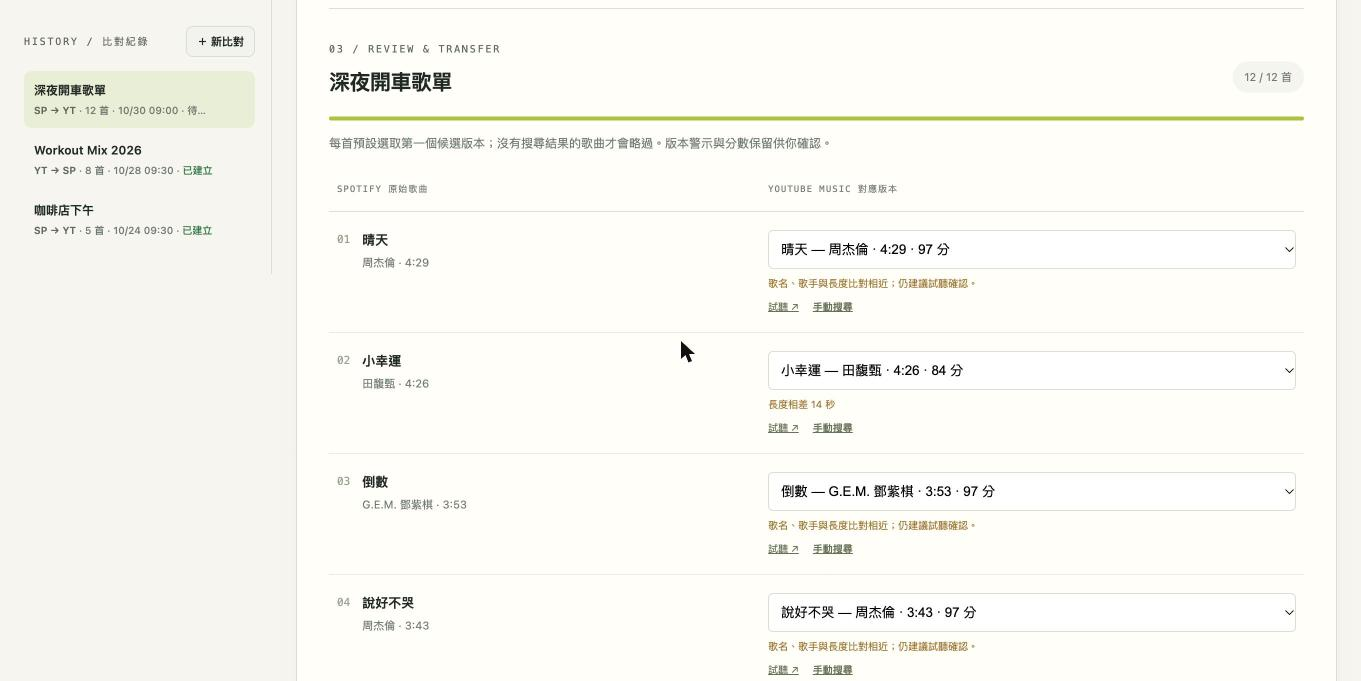
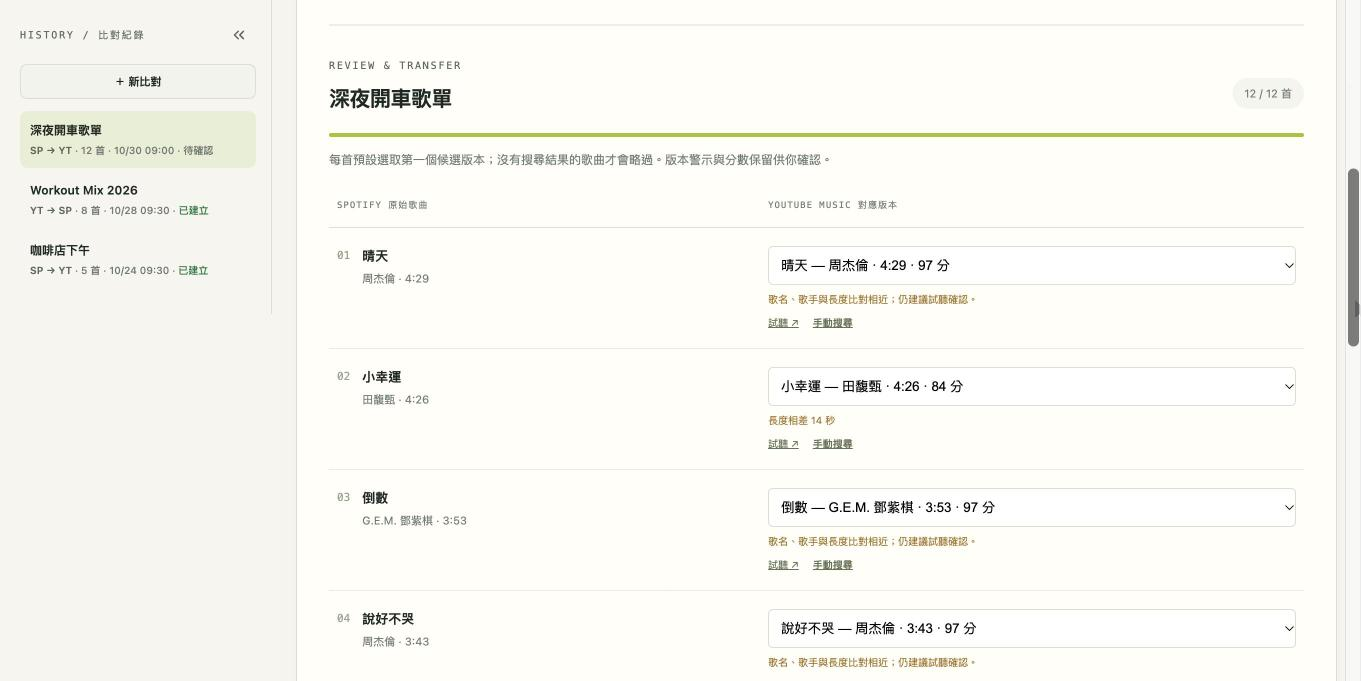
Move browser files to static/ and tests to tests/, refresh screenshots
The project root now holds only the Python modules and launchers: the
HTML, JS, CSS, favicon and i18n table live in static/, the six test
files in tests/ (run with `python -m unittest discover -s tests`).

docs/preview.py starts the app on port 8877 with fake accounts and
three sample jobs in a temporary folder, with the Spotify and YouTube
clients stubbed out, so README screenshots never show real accounts.
All nine screenshots were retaken from it and now show the renamed
帳號連接 tab, the account names on both cards and strips, and the
current first-time setup text.

README (both languages), DEVELOPMENT and CONTRIBUTING describe the new
layout, the test command, the account-name files under .local/ and how
to regenerate the screenshots.

diff --git a/docs/preview.py b/docs/preview.py
@@ -1,0 +1,136 @@
+"""Run Songferry with fake accounts and sample history, for taking the README screenshots.
+
+    .venv/bin/python docs/preview.py            # http://127.0.0.1:8877
+
+Nothing here touches the real `.local/` folder or any service: the sample data lives in a
+temporary folder, the Spotify and YouTube Music clients are replaced with stubs, and the
+account names are made up. Open /accounts, /transfer?job=<id> and /links in a browser
+about 1360 pixels wide and crop as needed.
+"""
+import sys
+import tempfile
+import time
+from datetime import datetime, timedelta
+from pathlib import Path
+
+ROOT = Path(__file__).resolve().parents[1]
+sys.path.insert(0, str(ROOT))
+import app as module  # noqa: E402
+
+PORT = 8877
+TEMP = Path(tempfile.mkdtemp(prefix='songferry-preview-'))
+module.LOCAL = TEMP / '.local'
+module.PORT = PORT
+module.BASE = f'http://127.0.0.1:{PORT}'
+module.REDIRECT = module.BASE + '/callback'
+
+DAY = 86400
+NOW = time.time()
+
+
+def at(days_ago, hour, minute=0):
+    day = datetime.now() - timedelta(days=days_ago)
+    return day.replace(hour=hour, minute=minute, second=0, microsecond=0).timestamp()
+
+
+def yt_track(title, artist, seconds, url=None):
+    track = {'title': title, 'artists': [artist], 'duration': seconds}
+    if url:
+        track['url'] = url
+    return track
+
+
+def yt_candidate(title, artist, seconds, score, warnings=(), video='dQw4w9WgXcQ'):
+    return {'videoId': video, 'title': title, 'artists': [artist], 'duration': seconds, 'score': score,
+            'warnings': list(warnings)}
+
+
+def sp_candidate(title, artist, seconds, score, warnings=(), tid='4cOdK2wGLETKBW3PvgPWqT'):
+    return {'id': tid, 'url': 'https://open.spotify.com/track/' + tid, 'title': title, 'artists': [artist],
+            'duration': seconds, 'score': score, 'warnings': list(warnings)}
+
+
+def rows(songs, reverse=False):
+    out = []
+    for index, (title, artist, seconds, score, warnings) in enumerate(songs):
+        video = f'preview{index:03d}xyz'
+        tid = f'{index:022d}'[-22:].replace('0', 'a')
+        if reverse:
+            candidate = sp_candidate(title, artist, seconds, score, warnings, tid=tid)
+            alternative = sp_candidate(title + ' (Live)', artist, seconds + 31, max(score - 30, 40), ['現場版本'], tid=tid[::-1])
+            track = yt_track(title, artist, seconds)
+        else:
+            candidate = yt_candidate(title, artist, seconds, score, warnings, video=video)
+            alternative = yt_candidate(title + ' (Cover)', 'Someone Else', seconds - 12, max(score - 35, 40), ['翻唱版本'], video=video[::-1])
+            track = yt_track(title, artist, seconds)
+        out.append({'track': track, 'candidates': [candidate, alternative],
+                    'selected': module.candidate_id(candidate), 'error': None})
+    return out
+
+
+NIGHT_DRIVE = [
+    ('晴天', '周杰倫', 269, 97, []), ('小幸運', '田馥甄', 266, 84, ['長度相差 14 秒']), ('倒數', 'G.E.M. 鄧紫棋', 233, 97, []),
+    ('說好不哭', '周杰倫', 223, 97, []), ('漂向北方', '黃明志', 288, 92, []), ('你，好不好？', '周興哲', 263, 95, []),
+    ('光年之外', 'G.E.M. 鄧紫棋', 235, 96, []), ('演員', '薛之謙', 261, 93, []), ('告白氣球', '周杰倫', 215, 98, []),
+    ('追光者', '岑寧兒', 234, 90, ['歌手名稱不一致']), ('體面', '于文文', 265, 94, []), ('剛好遇見你', '李玉剛', 200, 91, []),
+]
+WORKOUT = [
+    ('Blinding Lights', 'The Weeknd', 200, 98, []), ('Levitating', 'Dua Lipa', 203, 97, []),
+    ('Physical', 'Dua Lipa', 194, 96, []), ('Stronger', 'Kanye West', 312, 95, []),
+    ('Titanium', 'David Guetta', 245, 94, []), ('Don\'t Start Now', 'Dua Lipa', 183, 97, []),
+    ('Lose Yourself', 'Eminem', 326, 96, []), ('Eye of the Tiger', 'Survivor', 245, 93, []),
+]
+CAFE = [
+    ('Sunday Morning', 'Maroon 5', 244, 96, []), ('Put Your Records On', 'Corinne Bailey Rae', 215, 95, []),
+    ('Banana Pancakes', 'Jack Johnson', 192, 97, []), ('Better Together', 'Jack Johnson', 207, 96, []),
+    ('Lucky', 'Jason Mraz', 189, 92, ['長度相差 9 秒']),
+]
+
+JOBS = {
+    'preview-night-drive-0001': {
+        'title': '深夜開車歌單', 'direction': module.FORWARD, 'status': 'ready', 'created_at': at(0, 9, 0),
+        'total': len(NIGHT_DRIVE), 'rows': rows(NIGHT_DRIVE), 'source_url': 'https://open.spotify.com/playlist/preview',
+        'target_title': '', 'attempted': False, 'creating': False},
+    'preview-workout-mix-0002': {
+        'title': 'Workout Mix 2026', 'direction': module.REVERSE, 'status': 'ready', 'created_at': at(2, 9, 30),
+        'total': len(WORKOUT), 'rows': rows(WORKOUT, reverse=True), 'source_url': 'https://music.youtube.com/playlist?list=preview',
+        'target_title': 'Workout Mix 2026', 'attempted': True, 'creating': False,
+        'result': {'url': 'https://open.spotify.com/playlist/preview', 'requested': 8, 'actual': 8, 'verified': True}},
+    'preview-cafe-afternoon-003': {
+        'title': '咖啡店下午', 'direction': module.FORWARD, 'status': 'ready', 'created_at': at(6, 9, 30),
+        'total': len(CAFE), 'rows': rows(CAFE), 'source_url': 'https://open.spotify.com/playlist/preview2',
+        'target_title': '咖啡店下午', 'attempted': True, 'creating': False,
+        'result': {'url': 'https://music.youtube.com/playlist?list=preview', 'requested': 5, 'actual': 5, 'verified': True}},
+}
+
+
+def seed():
+    module.write_private(module.LOCAL / 'config.json', {'client_id': 'a' * 32})
+    module.write_private(module.LOCAL / 'spotify_token.json', {
+        'access_token': 'preview', 'refresh_token': 'preview', 'expires_at': NOW + 10 * DAY,
+        'scope': 'playlist-read-private playlist-read-collaborative playlist-modify-private playlist-modify-public'})
+    module.write_private(module.LOCAL / 'spotify_account.json', {'accountName': 'alex.listens'})
+    module.write_private(module.LOCAL / 'browser.json', {'preview': True})
+    module.write_private(module.LOCAL / 'youtube_account.json', {'accountName': 'Alex Chen'})
+    for jid, job in JOBS.items():
+        module.write_private(module.jobs_dir() / (jid + '.json'), dict(job, id=jid))
+
+
+def stub_services():
+    """Keep every screenshot offline: playlist lists come from here and nothing else is reachable."""
+    module.spotify = lambda *args, **kwargs: (_ for _ in ()).throw(ValueError('預覽模式沒有連線。'))
+    module.yt = lambda auth=False: None
+    module.spotify_playlists = lambda client: [
+        {'id': 'b' * 22, 'name': '深夜開車歌單', 'count': 12}, {'id': 'c' * 22, 'name': 'Workout Mix 2026', 'count': 8}]
+    module.youtube_playlists = lambda client: [
+        {'id': 'PLpreview0001', 'name': '咖啡店下午', 'count': 5}, {'id': 'PLpreview0002', 'name': '通勤', 'count': 31}]
+
+
+if __name__ == '__main__':
+    seed()
+    stub_services()
+    module.restore()
+    print('\nSongferry preview → ' + module.BASE + '  (sample data in ' + str(TEMP) + ')\n')
+    for jid, job in JOBS.items():
+        print(f'  {module.BASE}/transfer?job={jid}   {job["title"]}')
+    module.app.run(host='127.0.0.1', port=PORT, debug=False, threaded=True)

diff --git a/tests/test_i18n.py b/tests/test_i18n.py
@@ -5,13 +5,14 @@ import unittest
 from pathlib import Path
 import app as module
 
-ROOT = Path(__file__).resolve().parent
+ROOT = Path(__file__).resolve().parents[1]
+STATIC = ROOT / 'static'
 
 
 class TranslationTests(unittest.TestCase):
     @classmethod
     def setUpClass(cls):
-        data = json.loads((ROOT / 'i18n' / 'en.json').read_text(encoding='utf-8'))
+        data = json.loads((STATIC / 'i18n' / 'en.json').read_text(encoding='utf-8'))
         cls.strings = data['strings']
         cls.patterns = [(re.compile(p), r) for p, r in data['patterns']]
 
@@ -40,12 +41,12 @@ class TranslationTests(unittest.TestCase):
             self.assertTrue(self.covered(text), text)
 
     def test_ui_strings_are_translated(self):
-        html = (ROOT / 'index.html').read_text(encoding='utf-8')
+        html = (STATIC / 'index.html').read_text(encoding='utf-8')
         for text in re.findall(r'data-i18n>([^<]+)<', html):
             self.assertIn(text.strip(), self.strings, f'index.html: {text!r}')
         for text in re.findall(r'placeholder="([^"]*[\u4e00-\u9fff][^"]*)"', html):
             self.assertIn(text, self.strings, f'placeholder: {text!r}')
-        js = (ROOT / 'app.js').read_text(encoding='utf-8')
+        js = (STATIC / 'app.js').read_text(encoding='utf-8')
         for text in re.findall(r"(?<![\w$.])t\('([^']+)'", js):
             self.assertIn(text, self.strings, f'app.js t(): {text!r}')
         for text in re.findall(r"(?:notice|spotifyMessage|showSpotifySetup)\('([^']+)'", js):

diff --git a/app.py b/app.py
@@ -20,6 +20,7 @@ from reverse import (FORWARD, REVERSE, candidate_id, youtube_playlist_id, youtub
                      search_spotify, create_spotify)
 
 ROOT = Path(__file__).resolve().parent
+STATIC = ROOT / 'static'  # Frontend files served as they are.
 LOCAL = ROOT / '.local'  # Account data and matching history; ignored by git.
 PORT = 8876
 BASE = f'http://127.0.0.1:{PORT}'
@@ -311,30 +312,30 @@ def unexpected(exc):
 @app.get('/transfer')
 @app.get('/links')
 def index():
-    return send_file(ROOT / 'index.html')
+    return send_file(STATIC / 'index.html')
 
 
 @app.get('/app.js')
 def javascript():
-    return send_file(ROOT / 'app.js')
+    return send_file(STATIC / 'app.js')
 
 
 @app.get('/style.css')
 def css():
-    return send_file(ROOT / 'style.css')
+    return send_file(STATIC / 'style.css')
 
 
 @app.get('/i18n/<lang>.json')
 def translations(lang):
     if lang not in ('en',):
         raise ValueError('不支援的語言。')
-    return send_file(ROOT / 'i18n' / (lang + '.json'), mimetype='application/json')
+    return send_file(STATIC / 'i18n' / (lang + '.json'), mimetype='application/json')
 
 
 @app.get('/favicon.ico')
 @app.get('/favicon.svg')
 def favicon():
-    return send_file(ROOT / 'favicon.svg', mimetype='image/svg+xml')
+    return send_file(STATIC / 'favicon.svg', mimetype='image/svg+xml')
 
 
 @app.get('/api/status')
